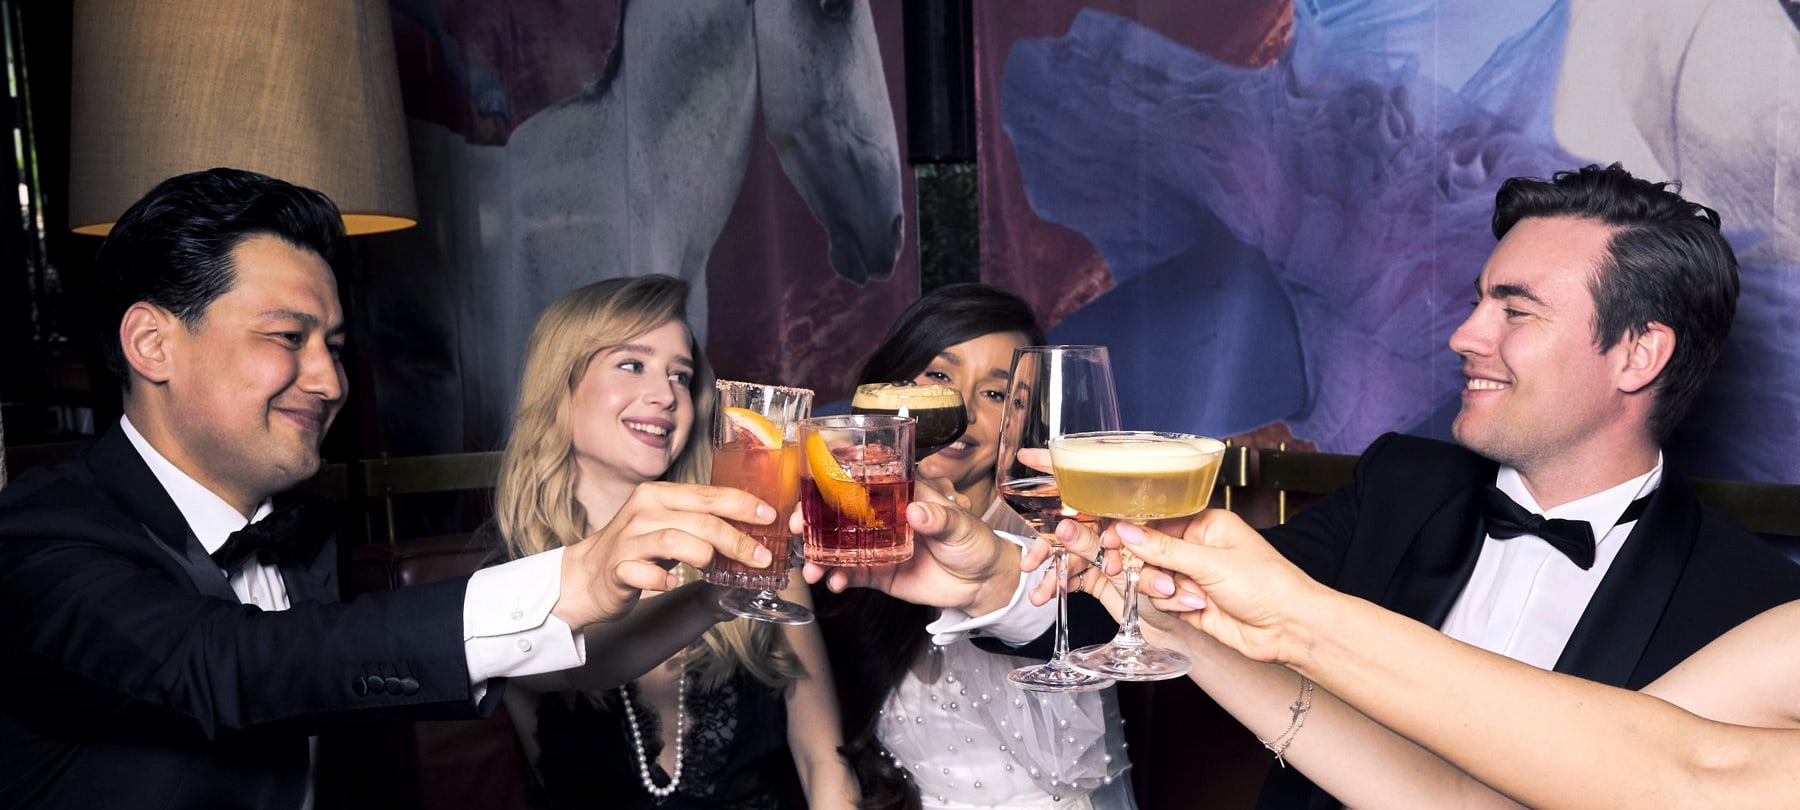
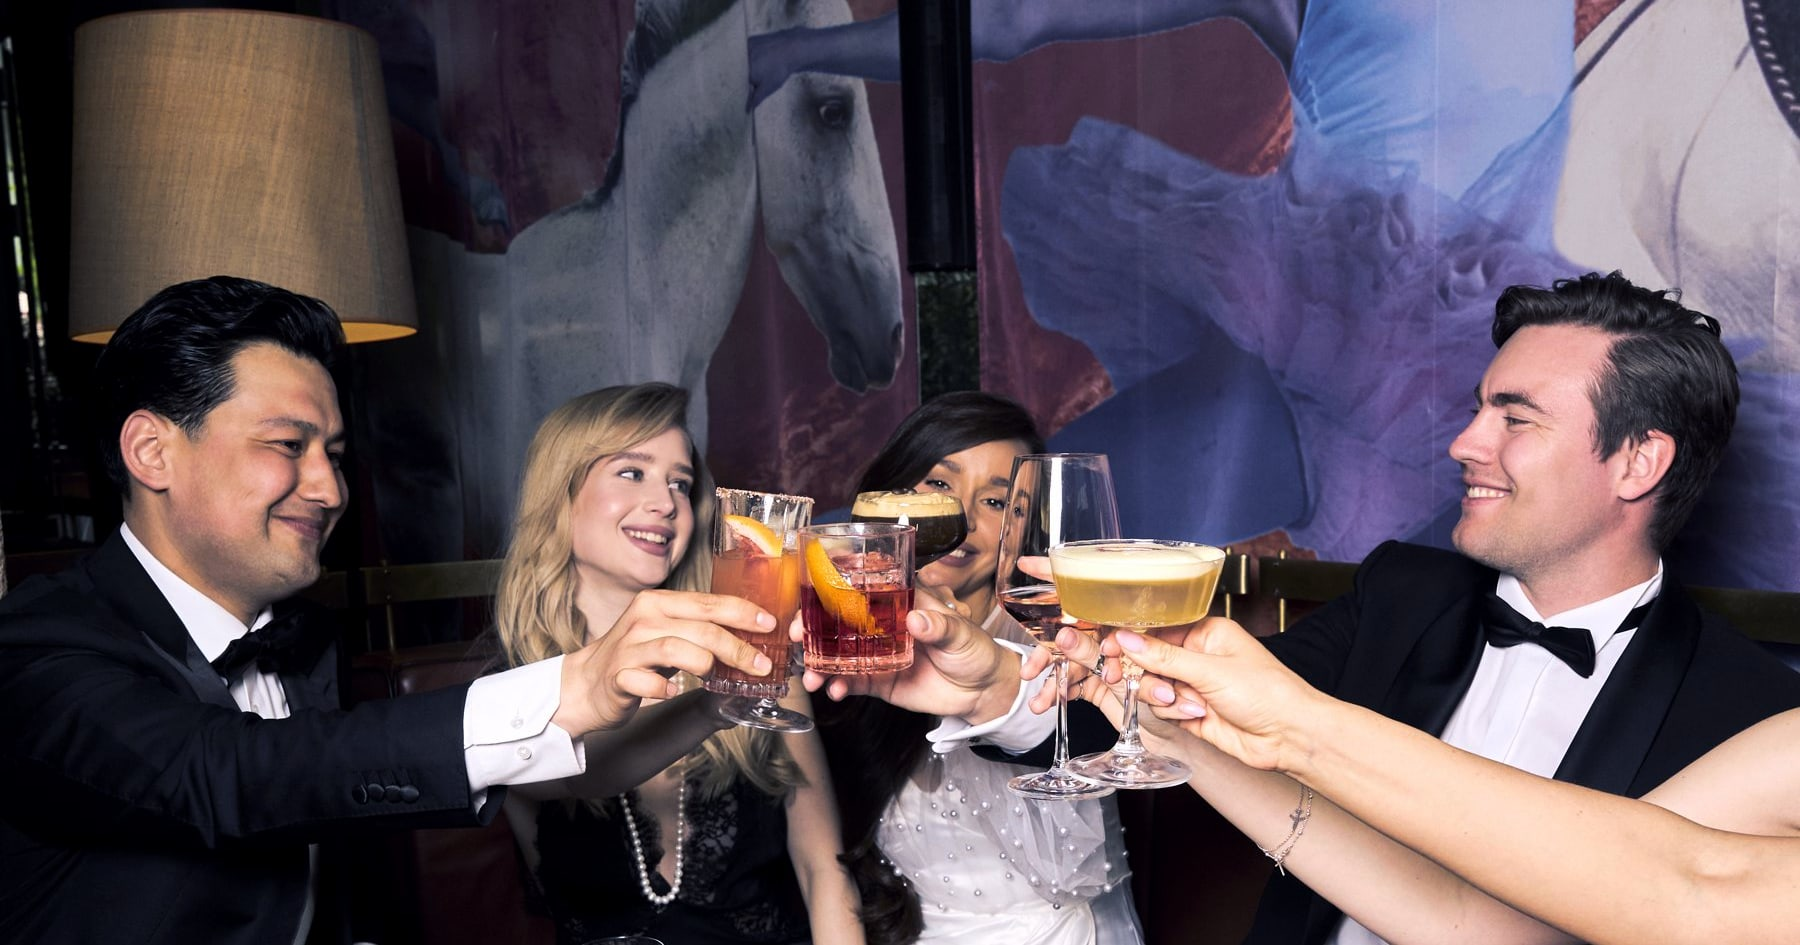
Studio-Aufnahme in den Header, schwache Gaestebilder aus den grossen Plaetzen
Der Header zeigt jetzt die Runde aus der Studio-Strecke. Sie ist deutlich
staerker als die Handkamera-Motive und beantwortet die Frage nach dem
Miteinander in einem Bild.

Der Zuschnitt musste dafuer neu: Das Motiv ist ein Band von etwa 1,9 zu 1,
in der halben Spalte des geteilten Headers waeren von fuenf Gaesten zwei
uebrig geblieben. Also zurueck auf Vollbild, und der Ausschnitt nach unten
hart begrenzt, weil dort Teller und ein Weinglas liegen.

Erster Versuch mit zwei flaechigen Verlaeufen zog das ganze Bild grau, aus
der Runde wurde ein Schemen. Jetzt zwei Verlaeufe mit engen Stopps: einer
ueber dem unteren Drittel fuer den Textblock, einer ueber der linken Haelfte
fuer die Headline. Die Glaeser in der Mitte bleiben unangetastet.

Zwei schwache Gaestemotive raus aus den grossen Plaetzen. City Trails zeigt
jetzt vier verschiedene Drinks auf einem Tisch, was zu vier Vierteln an
einem Abend ohnehin besser passt. Der Erklaerabschnitt bekommt das
staerkste verbliebene Gaestebild. Beide freigewordenen Motive laufen im
Bildband weiter, dort sind sie schnelle Textur und keine Aussage.

Der Bruch vor den Preisen zeigt wieder das Anstossen in Bernstein, sonst
staende dasselbe Bild zweimal auf der Seite.

diff --git a/src/app/[locale]/page.tsx b/src/app/[locale]/page.tsx
@@ -61,34 +61,29 @@ export default function OnIcePage({ params }: { params: { locale: string } }) {
       <StickyPass serverNow={now} />
       {/* ══ Hero ══ */}
       <section className="relative min-h-[100svh] flex flex-col justify-end overflow-hidden">
-        {/* Menschen im Header, nicht das Produkt.
-            Hier stand zwischendurch eine Produktaufnahme. Sie war schoen, aber
-            sie erzaehlte das Falsche: Die Texte stellen das Miteinander in den
-            Vordergrund, der Einstieg zeigte ein Glas. Wer die Marke nicht
-            kennt, sah zuerst einen Cocktail und nicht den Abend.
+        {/* Menschen im Header, und zwar quer ueber die volle Breite.
+            Das Motiv ist ein Band von etwa 1,9 zu 1. In einer halben Spalte
+            blieben davon zwei der fuenf Gaeste uebrig, deshalb hier Vollbild.
 
-            Das Bild bekommt eine eigene Spalte statt der ganzen Flaeche. Ueber
-            die volle Breite laeuft ein hochformatiges Motiv als flacher
-            Streifen durch die Bildmitte und die Koepfe fallen heraus. In der
-            halben Spalte steht es fast im Originalformat, die Schrift hat
-            freien Grund. */}
-        <div className="absolute inset-y-0 right-0 w-full lg:w-[52%]">
-          <ParallaxImage
-            src="/images/onice/onice-toast-two.jpg"
-            alt="Zwei Gäste heben ihre Drinks und schauen in die Kamera"
-            objectPosition="object-[center_32%]"
-            priority
-          />
-          {/* Weiche Kante nach links, damit die Spalte nicht als Kasten steht */}
-          <div className="absolute inset-0 bg-gradient-to-r from-licorice via-licorice/25 lg:via-transparent to-transparent" />
-          <div className="absolute inset-x-0 bottom-0 h-1/3 bg-gradient-to-t from-licorice to-transparent" />
-        </div>
-        {/* Auf kleinen Schirmen liegt das Bild hinter dem Text, dort braucht es
-            zusaetzlich Deckung. Ab lg steht es daneben und der Verlauf ist weg. */}
-        <div className="absolute inset-0 bg-licorice/45 lg:bg-transparent" />
+            Zwei Verlaeufe tragen die Lesbarkeit: einer von unten fuer den
+            Textblock, einer von links, damit die Headline nicht auf einem
+            Gesicht steht. */}
+        <ParallaxImage
+          src="/images/onice/set-crew-toast.jpg"
+          alt="Fünf Gäste stoßen mit ihren Cocktails an"
+          objectPosition="object-[center_45%]"
+          priority
+        />
+        {/* Zwei Verlaeufe mit engen Stopps statt zwei flaechigen Schleiern.
+            Uebereinandergelegt haben die flaechigen Fassungen das ganze Bild
+            grau gezogen, aus der Runde wurde ein Schemen. Jetzt deckt der eine
+            nur das untere Drittel, der andere nur die linke Haelfte, und die
+            Glaeser in der Mitte bleiben unangetastet. */}
+        <div className="absolute inset-0 bg-[linear-gradient(to_top,rgb(var(--c-ground))_0%,rgb(var(--c-ground)/0.55)_20%,transparent_52%)]" />
+        <div className="absolute inset-0 bg-[linear-gradient(to_right,rgb(var(--c-ground))_0%,rgb(var(--c-ground)/0.72)_26%,transparent_56%)]" />
         <div className="absolute inset-0 bg-[rgb(var(--c-accent-soft))]/10 mix-blend-overlay" />
 
-        <div className="relative z-10 w-full max-w-6xl mx-auto px-5 pb-14 pt-32 lg:max-w-none lg:pl-[max(1.25rem,calc((100vw-72rem)/2))] lg:pr-[52%]">
+        <div className="relative z-10 w-full max-w-6xl mx-auto px-5 pb-14 pt-32">
           <Image
             src="/images/onice/logo-onice-white.png"
             alt="Cocktail X"
@@ -183,8 +178,8 @@ export default function OnIcePage({ params }: { params: { locale: string } }) {
               und ein Bild dazu sagt es schneller als der zweite Satz. */}
           <div className="lg:col-span-5 relative rounded-2xl overflow-hidden ring-1 ring-hairline aspect-[4/5]">
             <Image
-              src="/images/onice/onice-two-women.jpg"
-              alt="Zwei Gäste lachen miteinander, Drinks in der Hand"
+              src="/images/onice/onice-toast-two.jpg"
+              alt="Zwei Gäste heben ihre Drinks"
               fill
               sizes="(max-width: 1024px) 100vw, 40vw"
               className="object-cover object-[center_30%]"
@@ -361,8 +356,8 @@ export default function OnIcePage({ params }: { params: { locale: string } }) {
           losziehen, Stadt erkunden, Leute kennenlernen. */}
       <section className="relative h-[65svh] min-h-[420px] overflow-hidden">
         <ParallaxImage
-          src="/images/onice/set-crew-toast.jpg"
-          alt="Fünf Gäste stoßen mit ihren Cocktails an"
+          src="/images/onice/onice-bar-clink.jpg"
+          alt="Angestoßene Gläser über dem Tresen"
           objectPosition="object-[center_45%]"
         />
         <div className="absolute inset-0 bg-gradient-to-t from-licorice via-licorice/50 to-licorice/25" />

diff --git a/src/components/onice/PhotoRail.tsx b/src/components/onice/PhotoRail.tsx
@@ -21,7 +21,7 @@ const ROW_A = [
   { src: "/images/onice/onice-portrait.jpg", alt: "Gast mit Drink in der Hand" },
   { src: "/images/onice/set-stir.jpg", alt: "Barkeeper rührt einen Highball" },
   { src: "/images/onice/set-eis.jpg", alt: "Eis wird ins Glas gefüllt" },
-  { src: "/images/onice/onice-two-women.jpg", alt: "Zwei Gäste lachen miteinander" },
+  { src: "/images/onice/onice-skyline.jpg", alt: "Runde am Geländer, dahinter die Lichter der Stadt" },
 ];
 
 const ROW_B = [
@@ -33,6 +33,7 @@ const ROW_B = [
   { src: "/images/onice/onice-bar-table.jpg", alt: "Gruppe am Tisch in einer dunklen Bar" },
   { src: "/images/onice/onice-bar-clink.jpg", alt: "Angestoßene Gläser über dem Tresen" },
   { src: "/images/onice/onice-group-table.jpg", alt: "Runde am Tresen, Drinks in der Hand" },
+  { src: "/images/onice/onice-two-women.jpg", alt: "Zwei Gäste lachen miteinander" },
 ];
 
 function Tile({ src, alt }: { src: string; alt: string }) {

diff --git a/src/config/onice.ts b/src/config/onice.ts
@@ -38,8 +38,8 @@ export const CHAPTERS: Chapter[] = [
     dates: "20. bis 24. November",
     claim: "Vier Viertel. Eine Nacht.",
     text: "Kuratierte Routen aus je drei Bars, die zusammenpassen und zu Fuß erreichbar sind. Du bekommst eine Reihenfolge vorgeschlagen, keine Reservierung. Wo du wirklich hängen bleibst, entscheidest du.",
-    image: "/images/onice/onice-skyline.jpg",
-    imagePosition: "object-[center_40%]",
+    image: "/images/onice/set-drinks-four.jpg",
+    imagePosition: "object-[center_45%]",
   },
   {
     key: "after-market-hours",
